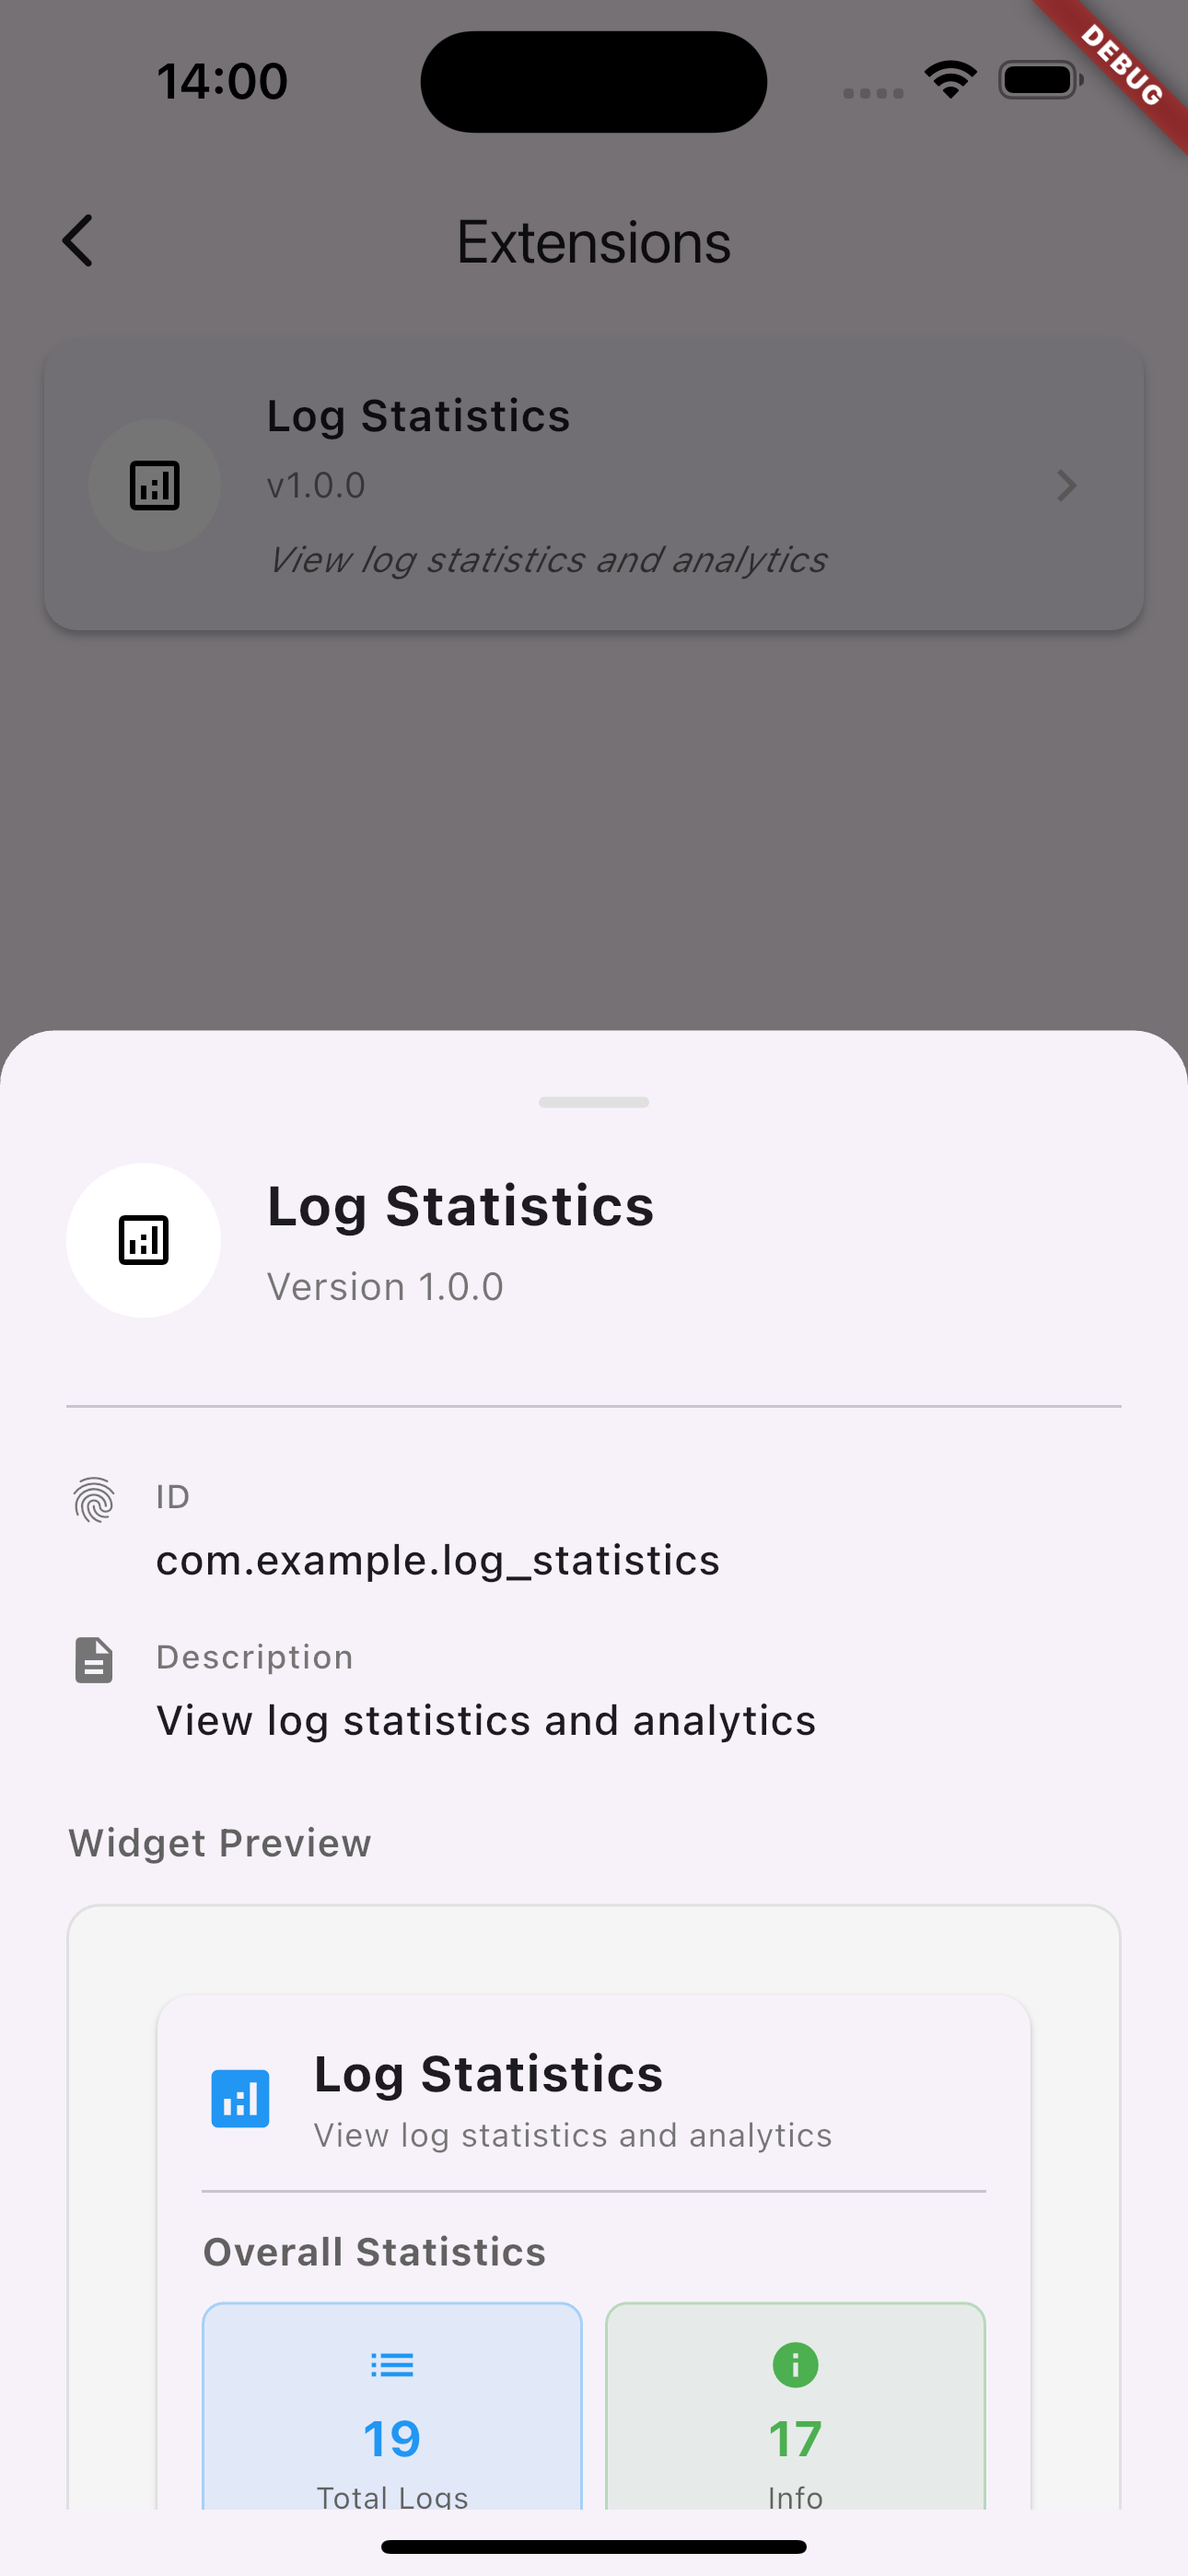
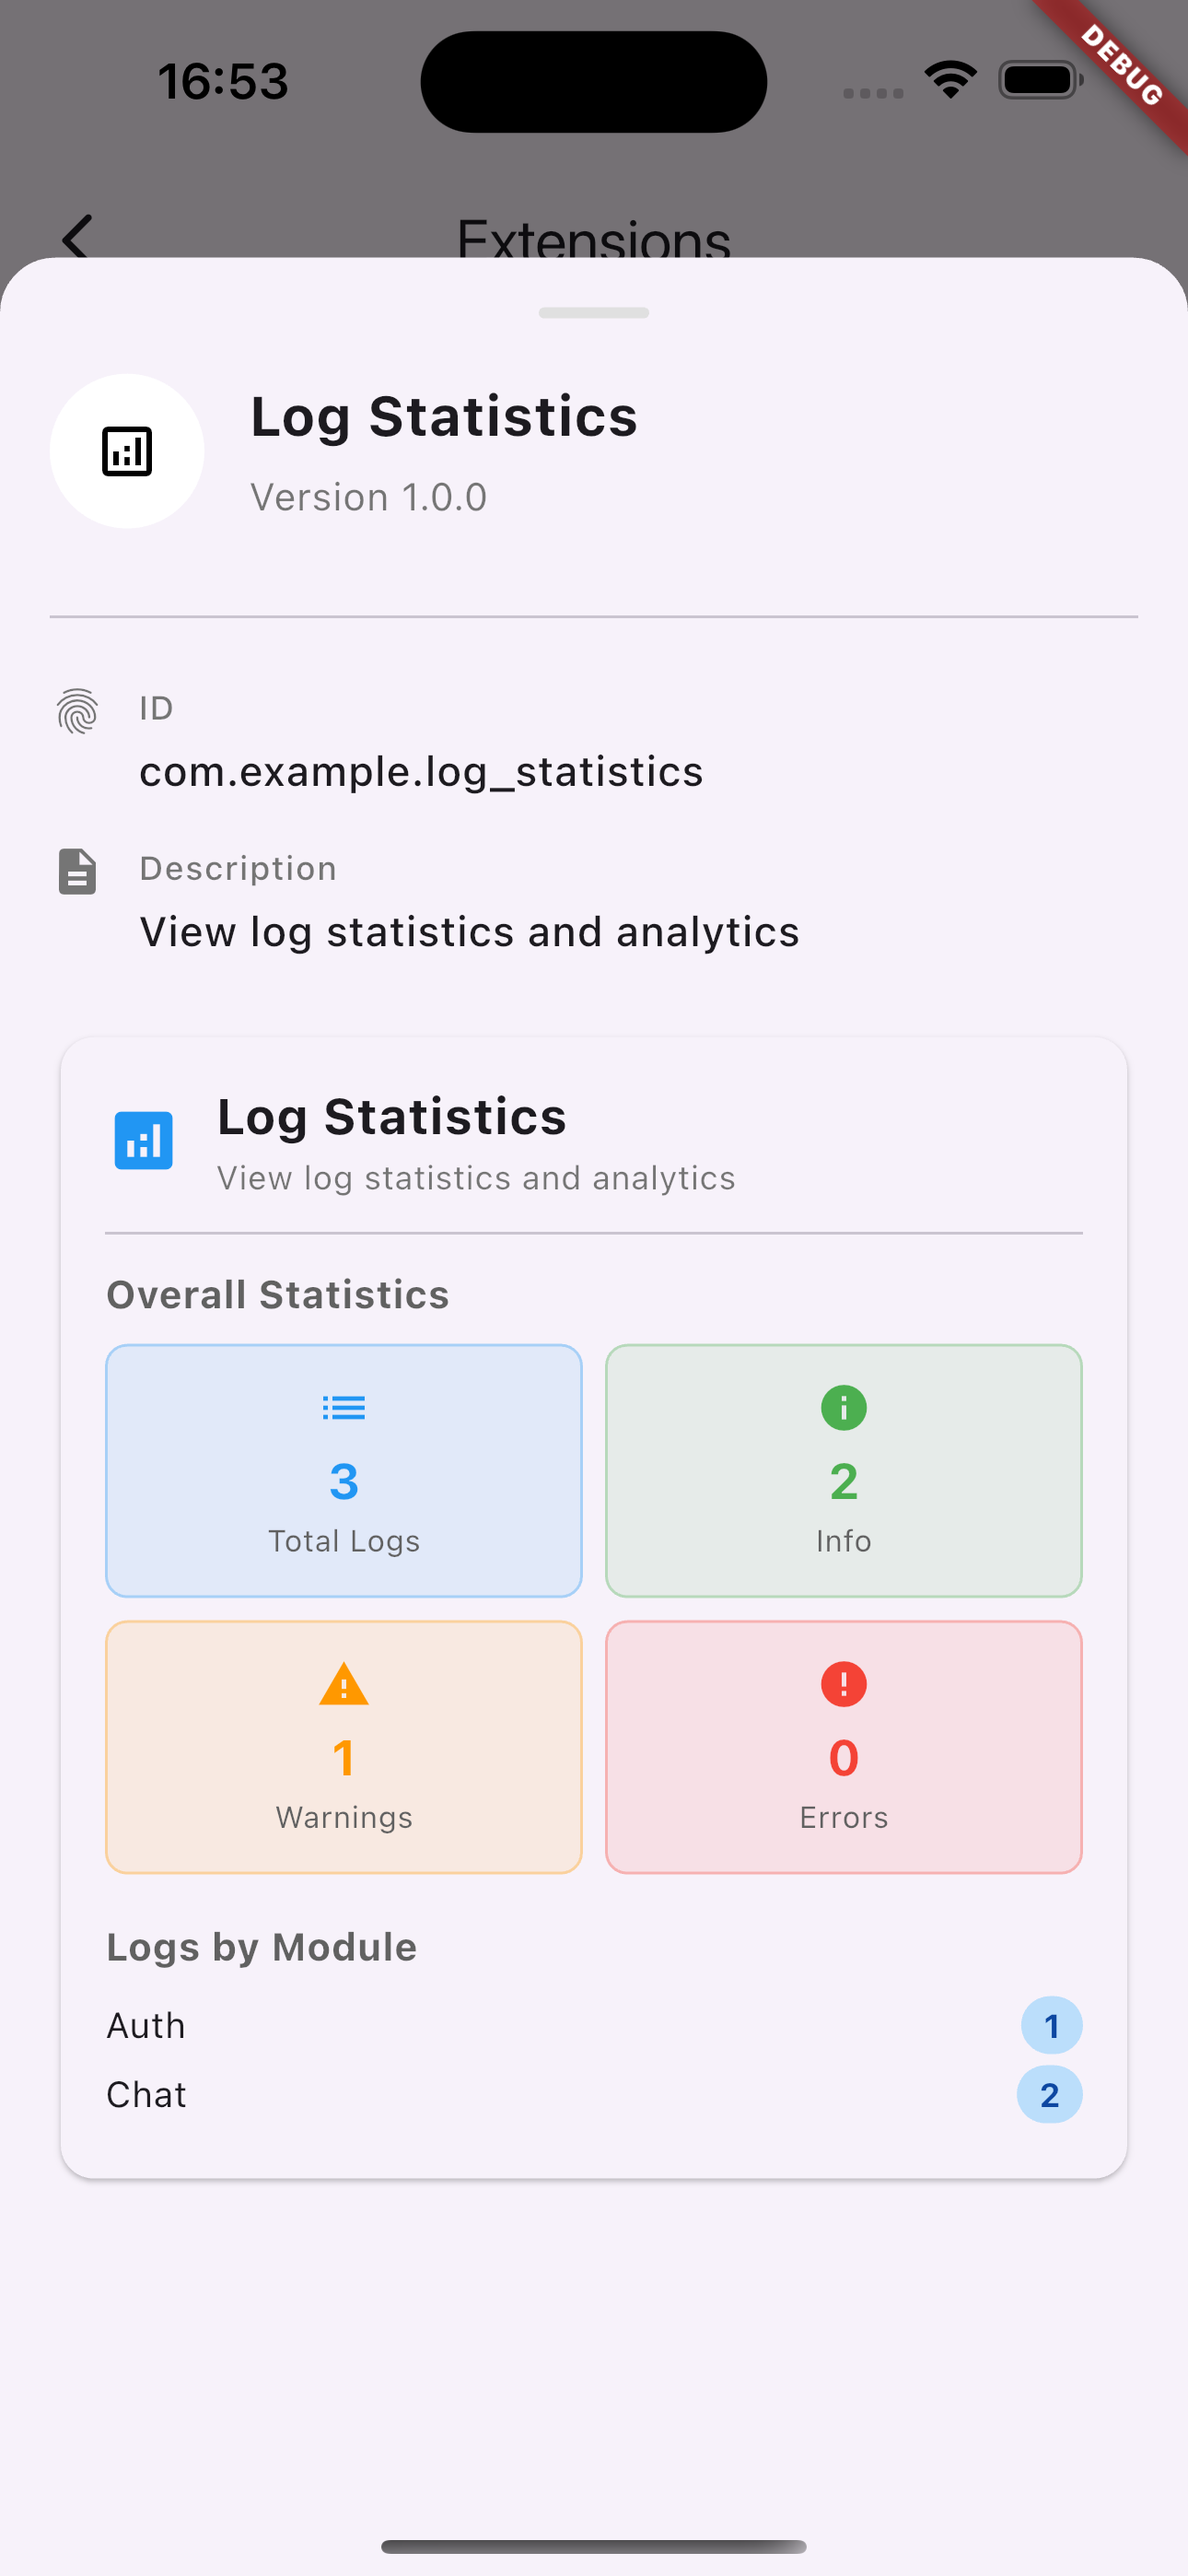
docs: Update CHANGELOG, README, and pubspec.yaml for version 2.0.1; remove widget preview and adjust padding in extension details

diff --git a/lib/src/ui/in_app_console_extensions_screen.dart b/lib/src/ui/in_app_console_extensions_screen.dart
@@ -205,107 +205,90 @@ class _ExtensionDetails extends StatelessWidget {
   @override
   Widget build(BuildContext context) {
     return Container(
-      padding: const EdgeInsets.all(24),
-      child: ListView(
+      padding: const EdgeInsets.only(left: 18, right: 18, top: 18),
+      child: SingleChildScrollView(
         controller: scrollController,
-        children: [
-          // Handle bar
-          Center(
-            child: Container(
-              width: 40,
-              height: 4,
-              margin: const EdgeInsets.only(bottom: 20),
-              decoration: BoxDecoration(
-                color: Colors.grey[300],
-                borderRadius: BorderRadius.circular(2),
+        child: Column(
+          children: [
+            // Handle bar
+            Center(
+              child: Container(
+                width: 40,
+                height: 4,
+                margin: const EdgeInsets.only(bottom: 20),
+                decoration: BoxDecoration(
+                  color: Colors.grey[300],
+                  borderRadius: BorderRadius.circular(2),
+                ),
               ),
             ),
-          ),
 
-          // Extension icon and title
-          Row(
-            children: [
-              Container(
-                width: 56,
-                height: 56,
-                decoration: const BoxDecoration(
-                  color: Colors.white,
-                 shape: BoxShape.circle
+            // Extension icon and title
+            Row(
+              children: [
+                Container(
+                  width: 56,
+                  height: 56,
+                  decoration: const BoxDecoration(
+                      color: Colors.white, shape: BoxShape.circle),
+                  child: Center(
+                    child: extension.icon,
+                  ),
                 ),
-                child: Center(
-                  child: extension.icon,
-                ),
-              ),
-              const SizedBox(width: 16),
-              Expanded(
-                child: Column(
-                  crossAxisAlignment: CrossAxisAlignment.start,
-                  children: [
-                    Text(
-                      extension.name,
-                      style: const TextStyle(
-                        fontSize: 20,
-                        fontWeight: FontWeight.bold,
+                const SizedBox(width: 16),
+                Expanded(
+                  child: Column(
+                    crossAxisAlignment: CrossAxisAlignment.start,
+                    children: [
+                      Text(
+                        extension.name,
+                        style: const TextStyle(
+                          fontSize: 20,
+                          fontWeight: FontWeight.bold,
+                        ),
                       ),
-                    ),
-                    const SizedBox(height: 4),
-                    Text(
-                      'Version ${extension.version}',
-                      style: TextStyle(
-                        fontSize: 14,
-                        color: Colors.grey[600],
+                      const SizedBox(height: 4),
+                      Text(
+                        'Version ${extension.version}',
+                        style: TextStyle(
+                          fontSize: 14,
+                          color: Colors.grey[600],
+                        ),
                       ),
-                    ),
-                  ],
+                    ],
+                  ),
                 ),
-              ),
-            ],
-          ),
-
-          const SizedBox(height: 24),
-          const Divider(),
-          const SizedBox(height: 16),
-
-          // Extension ID
-          _DetailRow(
-            label: 'ID',
-            value: extension.id,
-            icon: Icons.fingerprint,
-          ),
-
-          const SizedBox(height: 16),
-
-          // Extension description
-          if (extension.description.isNotEmpty) ...[
-            _DetailRow(
-              label: 'Description',
-              value: extension.description,
-              icon: Icons.description,
+              ],
             ),
+
+            const SizedBox(height: 24),
+            const Divider(),
             const SizedBox(height: 16),
-          ],
 
-          // Extension widget preview
-          const SizedBox(height: 8),
-          Text(
-            'Widget Preview',
-            style: TextStyle(
-              fontSize: 14,
-              fontWeight: FontWeight.w600,
-              color: Colors.grey[700],
+            // Extension ID
+            _DetailRow(
+              label: 'ID',
+              value: extension.id,
+              icon: Icons.fingerprint,
             ),
-          ),
-          const SizedBox(height: 12),
-          Container(
-            padding: const EdgeInsets.all(16),
-            decoration: BoxDecoration(
-              color: Colors.grey[100],
-              borderRadius: BorderRadius.circular(12),
-              border: Border.all(color: Colors.grey[300]!),
-            ),
-            child: extension.buildWidget(context),
-          ),
-        ],
+
+            const SizedBox(height: 16),
+
+            // Extension description
+            if (extension.description.isNotEmpty) ...[
+              _DetailRow(
+                label: 'Description',
+                value: extension.description,
+                icon: Icons.description,
+              ),
+              const SizedBox(height: 16),
+            ],
+
+            // Extension widget
+            const SizedBox(height: 8),
+            extension.buildWidget(context),
+          ],
+        ),
       ),
     );
   }

diff --git a/example/lib/extensions/log_statistics_extension.dart b/example/lib/extensions/log_statistics_extension.dart
@@ -43,7 +43,6 @@ class LogStatisticsExtension extends InAppConsoleExtension {
   @override
   Widget buildWidget(BuildContext context) {
     return Card(
-      margin: const EdgeInsets.all(16),
       child: Padding(
         padding: const EdgeInsets.all(16),
         child: Column(

diff --git a/README.md b/README.md
@@ -1,5 +1,6 @@
 ## Table of Contents
 
+- [Table of Contents](#table-of-contents)
 - [Overview](#overview)
 - [Designed for Micro-frontend architecture](#designed-for-micro-frontend-architecture)
 - [Screenshots](#screenshots)
@@ -61,18 +62,18 @@ In-app console for real-time log viewing. Bridges developers and testers with un
 
 ## Screenshots
 
-<img src="https://github.com/mduccc/in_app_console/blob/2.0.0/screenshots/list.png?raw=true)" alt="Log List" width="45%"/> <img src="https://github.com/mduccc/in_app_console/blob/2.0.0/screenshots/detail.png?raw=true)" alt="Log Detail" width="45%"/>
+<img src="https://github.com/mduccc/in_app_console/blob/2.0.1/screenshots/list.png?raw=true)" alt="Log List" width="45%"/> <img src="https://github.com/mduccc/in_app_console/blob/2.0.1/screenshots/detail.png?raw=true)" alt="Log Detail" width="45%"/>
 
-<img src="https://github.com/mduccc/in_app_console/blob/2.0.0/screenshots/extension_list.png?raw=true)" alt="Extensions List" width="45%"/> <img src="https://github.com/mduccc/in_app_console/blob/2.0.0/screenshots/extension_detail_sample.png?raw=true)" alt="A extension " width="45%"/>
+<img src="https://github.com/mduccc/in_app_console/blob/2.0.1/screenshots/extension_list.png?raw=true)" alt="Extensions List" width="45%"/> <img src="https://github.com/mduccc/in_app_console/blob/2.0.1/screenshots/extension_detail_sample.png?raw=true)" alt="A extension " width="45%"/>
 
-<img src="https://github.com/mduccc/in_app_console/blob/2.0.0/screenshots/console.png?raw=true)" alt="Log List"/>
+<img src="https://github.com/mduccc/in_app_console/blob/2.0.1/screenshots/console.png?raw=true)" alt="Log List"/>
 
 ## Usage
 
 ### 1. Add dependency
 ```yaml
 dependencies:
-  in_app_console: ^2.0.0
+  in_app_console: ^2.0.1
 ```
 
 ### 2. Import the package
@@ -228,7 +229,7 @@ class LogStatisticsExtension extends InAppConsoleExtension {
 
 ## Roadmap
 
-~~Support plugging extensions into the in-app console~~ ✅ **Completed in v2.0.0**
+~~Support plugging extensions into the in-app console~~ ✅ **Completed in v2.0.1**
 
 Future enhancements:
 

diff --git a/CHANGELOG.md b/CHANGELOG.md
@@ -1,3 +1,6 @@
+## 2.0.1
+* Removed "Widget Preview" label and preview container wrapper
+
 ## 2.0.0
 
 ### Breaking Changes
